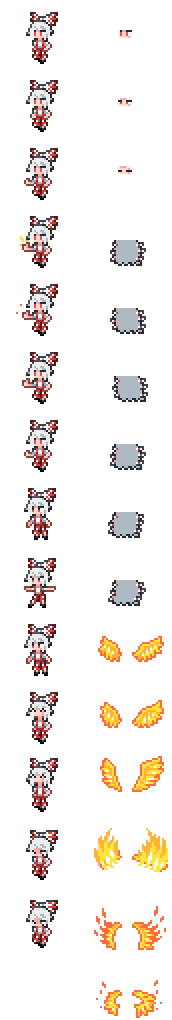
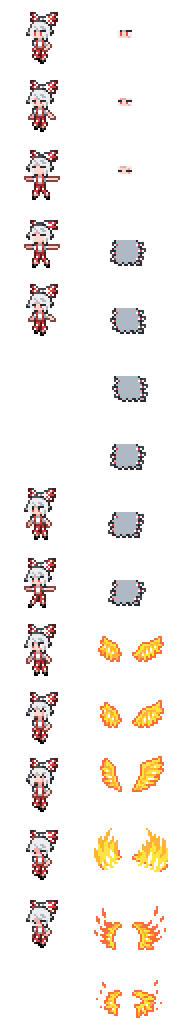
妹红特殊动作更改

Changed region(s): [[0.1163, 0.0912, 0.3488, 0.3039], [0.1163, 0.3039, 0.3488, 0.4863]]

diff --git a/Content/Projectiles/Pets/Moku.cs b/Content/Projectiles/Pets/Moku.cs
@@ -4,6 +4,7 @@ using System.IO;
 using Terraria;
 using Terraria.DataStructures;
 using Terraria.GameContent;
+using Terraria.GameContent.Drawing;
 using Terraria.ID;
 using Terraria.Utilities;
 using TouhouPets.Content.Buffs.PetBuffs;
@@ -24,12 +25,6 @@ namespace TouhouPets.Content.Projectiles.Pets
         readonly Texture2D clothTex = AltVanillaFunction.GetExtraTexture("Moku_Cloth");
         public override bool PreDraw(ref Color lightColor)
         {
-            DrawPetConfig config = drawConfig with
-            {
-                AltTexture = clothTex,
-                ShouldUseEntitySpriteDraw = true,
-            };
-
             if (Fighting)
             {
                 DrawDanmakuRing();
@@ -41,36 +36,62 @@ namespace TouhouPets.Content.Projectiles.Pets
                     drawConfig with
                     {
                         ShouldUseEntitySpriteDraw = true,
-                        PositionOffset = new Vector2(Main.rand.NextFloat(-1f, 1f)) + new Vector2(extraX, extraY),
+                        PositionOffset = new Vector2(Main.rand.NextFloat(-1f, 1f), Main.rand.NextFloat(-1f, 1f))
+                        + new Vector2(extraX, extraY),
+                        Scale = 1 + flameAlhpa * 0.3f,
                     }, 1);
             }
             Projectile.DrawStateNormalizeForPet();
-
-            Projectile.DrawPet(hairFrame, lightColor,
-                drawConfig with
+            if (flameAlhpa > 0f)
+            {
+                int max = 5;
+                for (int i = 0; i < max; i++)
                 {
-                    PositionOffset = new Vector2(extraX, extraY),
-                }, 1);
-            Projectile.DrawPet(hairFrame, lightColor,
-               config with
-               {
-                   PositionOffset = new Vector2(extraX, extraY),
-               }, 1);
-            Projectile.DrawStateNormalizeForPet();
-
-            Projectile.DrawPet(Projectile.frame, lightColor, drawConfig);
-
-            if (PetState == 1 || PetState == 3)
-                Projectile.DrawPet(blinkFrame, lightColor, drawConfig, 1);
-
-            Projectile.DrawPet(Projectile.frame, lightColor, config);
-            Projectile.DrawStateNormalizeForPet();
+                    Color clr = Color.Goldenrod * 0.4f;
+                    clr.A *= 0;
+                    DrawMokuBody(clr,
+                        drawConfig with
+                        {
+                            PositionOffset = new Vector2(0, -2)
+                            .RotatedBy(MathHelper.TwoPi / max * i + Main.GlobalTimeWrappedHourly * 3),
+                            Scale = 1.2f,
+                        });
+                }
+            }
+            DrawMokuBody(lightColor, drawConfig);
 
             if (Projectile.owner == Main.myPlayer && PetState < 0)
             {
                 DrawFightState();
             }
             return false;
+        }
+        private void DrawMokuBody(Color lightColor, DrawPetConfig config)
+        {
+            DrawPetConfig config2 = config with
+            {
+                AltTexture = clothTex,
+                ShouldUseEntitySpriteDraw = true,
+            };
+            Projectile.DrawPet(hairFrame, lightColor,
+                config with
+                {
+                    PositionOffset = new Vector2(extraX, extraY),
+                }, 1);
+            Projectile.DrawPet(hairFrame, lightColor,
+               config2 with
+               {
+                   PositionOffset = new Vector2(extraX, extraY),
+               }, 1);
+            Projectile.DrawStateNormalizeForPet();
+
+            Projectile.DrawPet(Projectile.frame, lightColor, config);
+
+            if (PetState == 1)
+                Projectile.DrawPet(blinkFrame, lightColor, config, 1);
+
+            Projectile.DrawPet(Projectile.frame, lightColor, config2);
+            Projectile.DrawStateNormalizeForPet();
         }
         private void DrawFightState()
         {
@@ -111,7 +132,7 @@ namespace TouhouPets.Content.Projectiles.Pets
             if (blinkFrame > 2)
             {
                 blinkFrame = 0;
-                PetState = PetState == 3 ? 2 : 0;
+                PetState = 0;
             }
         }
         int blinkFrame, blinkFrameCounter;
@@ -120,7 +141,7 @@ namespace TouhouPets.Content.Projectiles.Pets
 
         float extraX, extraY;
         float floatingX, floatingY;
-        float ringAlpha;
+        float ringAlpha, flameAlhpa;
         int[] abilityCD;
         private void UpdateMiscFrame()
         {
@@ -165,21 +186,19 @@ namespace TouhouPets.Content.Projectiles.Pets
             }
             if (extraAI[0] < 1)
             {
-                if (Projectile.frame > 5)
+                if (Projectile.frame > 3)
                 {
-                    Projectile.frame = 5;
-                    for (int i = 0; i < 6; i++)
-                        Dust.NewDustDirect(Projectile.Center + new Vector2(Projectile.spriteDirection == -1 ? -24 : 14, 6)
-                                , 1, 1, Main.rand.NextBool(2) ? MyDustId.Fire : MyDustId.YellowGoldenFire,
-                                Main.rand.Next(-4, 4), Main.rand.Next(-16, -8)
-                                , 100, Color.White, Main.rand.NextFloat(1.3f, 2.2f)).noGravity = true;
-                    if (Main.rand.NextBool(64))
+                    Projectile.frame = 2;
+                    if (Projectile.owner == Main.myPlayer)
                     {
-                        Projectile.NewProjectile(Projectile.GetSource_FromAI(), Projectile.Center + new Vector2(Projectile.spriteDirection == -1 ? -24 : 14, 6),
-                            new Vector2(Main.rand.Next(-3, 3), Main.rand.Next(-5, -2)), ProjectileID.GreekFire1, 0, 0, Projectile.owner);
+                        for (int i = 0; i < 4; i++)
+                        {
+                            Projectile.NewProjectile(Projectile.GetSource_FromThis()
+                                , Projectile.Center + new Vector2(0, Main.rand.Next(20, 90)).RotatedByRandom(MathHelper.TwoPi)
+                                    , Vector2.Zero, ProjectileType<MokuFlame>(), 0, 0);
+                        }
+                        extraAI[1]++;
                     }
-
-                    extraAI[1]++;
                 }
                 if (Projectile.owner == Main.myPlayer)
                 {
@@ -194,10 +213,10 @@ namespace TouhouPets.Content.Projectiles.Pets
             }
             else
             {
-                if (Projectile.frame > 6)
+                if (Projectile.frame > 4)
                 {
                     Projectile.frame = 0;
-                    extraAI[0] = 900;
+                    extraAI[0] = 1800;
                     PetState = 0;
                 }
             }
@@ -492,7 +511,16 @@ namespace TouhouPets.Content.Projectiles.Pets
             {
                 extraY = 2;
             }
+            if (PetState == 2)
+            {
+                flameAlhpa += 0.1f;
+            }
+            else
+            {
+                flameAlhpa -= 0.03f;
+            }
             ringAlpha = MathHelper.Clamp(ringAlpha += 0.05f * (Fighting ? 1 : -1), 0, 1);
+            flameAlhpa = MathHelper.Clamp(flameAlhpa, 0, 1);
 
             if (Projectile.owner != Main.myPlayer)
                 return;
@@ -551,21 +579,14 @@ namespace TouhouPets.Content.Projectiles.Pets
                 }
                 if (PetState >= 0)
                 {
-                    if (mainTimer % 270 == 0 && PetState <= 2)
+                    if (mainTimer % 270 == 0 && PetState == 0)
                     {
-                        if (PetState == 2)
-                        {
-                            PetState = 3;
-                        }
-                        else
-                        {
-                            PetState = 1;
-                        }
+                        PetState = 1;
                         Projectile.netUpdate = true;
                     }
-                    if (mainTimer % 720 == 0 && Main.rand.NextBool(4) && extraAI[0] <= 0 && PetState < 2)
+                    if (mainTimer % 720 == 0 && Main.rand.NextBool(4) && extraAI[0] <= 0 && PetState <= 1)
                     {
-                        extraAI[2] = Main.rand.Next(240, 480);
+                        extraAI[2] = Main.rand.Next(120, 240);
                         PetState = 2;
                         Projectile.netUpdate = true;
                     }
@@ -584,11 +605,9 @@ namespace TouhouPets.Content.Projectiles.Pets
                 Projectile.frame = 0;
                 Blink();
             }
-            else if (PetState == 2 || PetState == 3)
+            else if (PetState == 2)
             {
                 Fire();
-                if (PetState == 3)
-                    Blink();
             }
             else if (PetState == -1)
             {

diff --git a/Content/Projectiles/MokuFlame.cs b/Content/Projectiles/MokuFlame.cs
@@ -1,0 +1,96 @@
+using Microsoft.Xna.Framework;
+using Microsoft.Xna.Framework.Graphics;
+using Terraria;
+using Terraria.DataStructures;
+using Terraria.Graphics.Shaders;
+
+namespace TouhouPets.Content.Projectiles
+{
+    public class MokuFlame : ModProjectile
+    {
+        public override void SetStaticDefaults()
+        {
+            Main.projFrames[Type] = 3;
+        }
+        public override void SetDefaults()
+        {
+            Projectile.width = 14;
+            Projectile.height = 14;
+            Projectile.friendly = true;
+            Projectile.penetrate = -1;
+            Projectile.tileCollide = false;
+            Projectile.Opacity = 0;
+        }
+        public override bool? CanDamage()
+        {
+            return false;
+        }
+        public override bool PreDraw(ref Color lightColor)
+        {
+            Texture2D tex = AltVanillaFunction.ProjectileTexture(Type);
+            Vector2 pos = Projectile.Center - Main.screenPosition;
+            int height = tex.Height / Main.projFrames[Type];
+            Rectangle rect = new Rectangle(0, Projectile.frame * height, tex.Width, height);
+            Color clr = Projectile.GetAlpha(Color.White) * 0.5f;
+            clr.A *= 0;
+            Vector2 orig = rect.Size() / 2;
+
+            Player player = Main.player[Projectile.owner];
+
+            Main.spriteBatch.QuickToggleAdditiveMode(true, false, BlendState.AlphaBlend);
+
+            DrawData data = new DrawData(tex, pos, rect, clr, 0f, orig,
+                Projectile.scale, SpriteEffects.None, 0);
+            GameShaders.Armor.Apply(player.cLight, Projectile, data);
+
+            for (int i = 0; i < 3; i++)
+            {
+                data.sourceRect = new Rectangle(0, Main.rand.Next(3) * height, tex.Width, height);
+                data.position += new Vector2(Main.rand.NextFloat(-1.2f, 1.2f), Main.rand.NextFloat(-1.2f, 1.2f));
+                data.Draw(Main.spriteBatch);
+            }
+
+            Main.spriteBatch.QuickToggleAdditiveMode(false);
+            return false;
+        }
+        public override void AI()
+        {
+            if (Projectile.ai[2] == 0)
+            {
+                Projectile.Opacity += 0.2f;
+                if (Projectile.Opacity >= 1)
+                {
+                    Projectile.Opacity = 1;
+                    Projectile.ai[2]++;
+                }
+            }
+            else
+            {
+                if (++Projectile.localAI[0] > 20)
+                    Projectile.scale -= 0.02f;
+                else
+                {
+                    if (Main.rand.NextBool(7))
+                    {
+                        Dust.NewDustPerfect(Projectile.position + new Vector2(Main.rand.Next(0, Projectile.width)
+                        , Main.rand.Next(0, Projectile.height)), MyDustId.Fire
+                    , new Vector2(Main.rand.NextFloat(-1f, 1f), Main.rand.NextFloat(-1f, 1f)), 100, default
+                    , Main.rand.NextFloat(1f, 2f)).noGravity = true;
+                    }
+                }
+
+                if (Projectile.scale <= 0)
+                {
+                    Projectile.active = false;
+                    Projectile.netUpdate = true;
+                }
+            }
+
+            float r = 1.79f;
+            float g = 1.11f;
+            float b = 0.55f;
+            float brightness = Projectile.Opacity;
+            Lighting.AddLight(Projectile.Center, r * brightness, g * brightness, b * brightness);
+        }
+    }
+}
